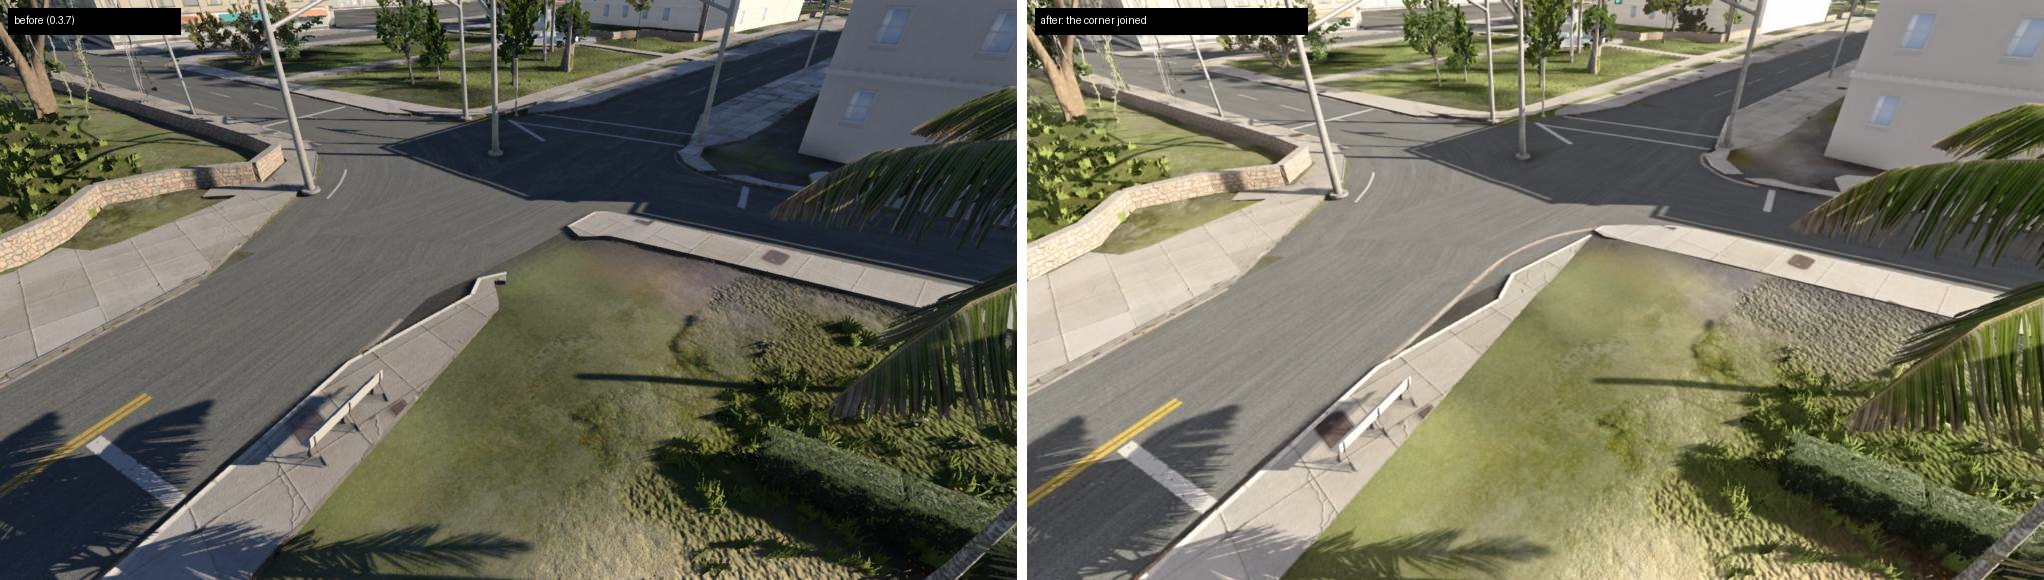
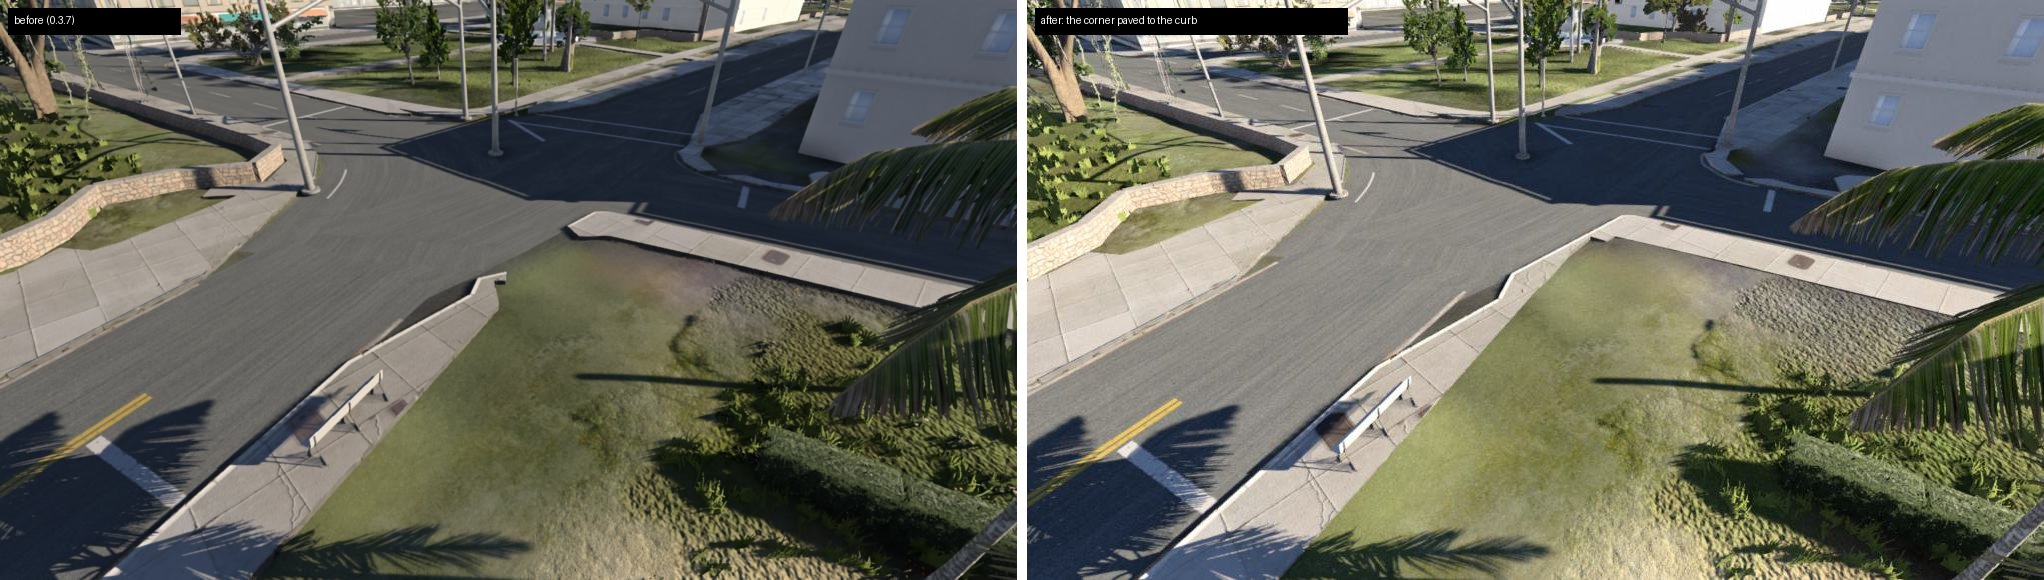
Corners paved square where only their own streets block a rounded one
The lean into a corner's own streets (00608b7) put the curb a metre into
King St.'s lane at Cordova x King. Rounded corners keep clear of every
road again; where none fits and only the corner's own two streets (by
name or way) are in the way, the corner is paved square: from both
sidewalks' ends out to their outer corner and in to where the curb lines
meet, the road keeping its surface and the curb following its edge. Ends
paved on carry no cap or ramp. The export log counts the corners
(St. Augustine 508: 498 rounded, 8 square, 2 open; tychonas 14 square of
83, its streets bending at junctions) and names where the square ones are.
Checked in game against the user's photo; sweep: no cell failing.

diff --git a/services/beamngSidewalks.js b/services/beamngSidewalks.js
@@ -182,7 +182,6 @@ const CORNER_RADIUS = 5;
 const CORNER_TRIES = [1, 0.5, 0.25];
 const CORNER_REACH_M = 15;    // how far past a run's end its corner may lie
 const CORNER_ANGLES = [30, 150];  // degrees between the two curb lines for a corner
-const CORNER_OWN_SLACK_M = 1.5;  // how far a corner may lean into the two streets it joins (joinCorners)
 const RUNS_PER_MESH = 300;
 
 // Divided roads' medians (BeamNG.Earth server/roads.py dual_carriageways,
@@ -1657,8 +1656,17 @@ function joinCorners(runs, index, walkRuns = [], streetOfOwner = new Map()) {
   pairs.sort((x, y) => x.cost - y.cost || x.i - y.i || x.j - y.j);
   const used = new Set();
   const corners = [];
+  const squares = []; const stats = { pairs: 0, round: 0, square: 0, byOther: 0, noFit: 0 };
   for (const { A, B } of pairs) {
     if (used.has(A) || used.has(B)) continue;
+    // (the corner's own two streets: a street drawn in pieces of different widths, its line bending into the junction,
+    // reaches past the corner's curb; at Cordova x King St. three of four corners were refused for it and the two
+    // sidewalks ended square with grass between, where the real corner is paved from the curb to its planting beds
+    // (St. Augustine, the user's photo 2026-11-26))
+    const own = new Set([A.run.owner, ...(A.run.owners || []), B.run.owner, ...(B.run.owners || [])]);
+    const ownStreets = new Set([...own].map((o) => streetOfOwner.get(o)).filter((v) => v !== undefined));
+    const isOwn = (o) => own.has(o) || ownStreets.has(streetOfOwner.get(o));
+    let byOther = false; let made = false; stats.pairs++;
     const r0 = Math.max(CORNER_RADII[A.run.highway] ?? CORNER_RADIUS, CORNER_RADII[B.run.highway] ?? CORNER_RADIUS);
     for (const share of CORNER_TRIES) {
       const r = r0 * share;
@@ -1684,23 +1692,37 @@ function joinCorners(runs, index, walkRuns = [], streetOfOwner = new Map()) {
         [T2[0] + B.n[0] * B.run.width, T2[1] + B.n[1] * B.run.width], B.d);
       if (!outer) break;
       const probes = [...arc, outer, [(outer[0] + Z[0]) / 2, (outer[1] + Z[1]) / 2]];
-      // (the two streets the corner joins may reach CORNER_OWN_SLACK_M past its curb: a street drawn in pieces of
-      // different widths overlaps at the junction, the wider piece 0.2 to 0.4 m past the narrower one's curb, and three
-      // of four corners at Cordova x King St. were refused, the sidewalks ending square (St. Augustine, 2026-11-26).
-      // Any other road still refuses it from 0.2 m in)
-      const own = new Set([A.run.owner, ...(A.run.owners || []), B.run.owner, ...(B.run.owners || [])]);
-      const ownStreets = new Set([...own].map((o) => streetOfOwner.get(o)).filter((v) => v !== undefined));
-      const isOwn = (o) => own.has(o) || ownStreets.has(streetOfOwner.get(o));
-      const onRoad = ([x, y]) => isOnOtherCarriageway(index, x, y, -0.2, isOwn) || isOnOtherCarriageway(index, x, y, -CORNER_OWN_SLACK_M, () => false);
-      if (probes.some(onRoad)) continue;
+      // (clear of every road, its own two streets too: let lean into its own street, a corner's curb stood a metre into
+      // King St.'s lane at Cordova x King (St. Augustine, 2026-11-26). Refused by its own streets alone, the corner is
+      // paved square below instead)
+      if (probes.some(([x, y]) => isOnOtherCarriageway(index, x, y, -0.2, () => false))) {
+        if (probes.some(([x, y]) => isOnOtherCarriageway(index, x, y, -0.2, isOwn))) byOther = true;
+        continue;
+      }
       moveEnd(A, t1);
       moveEnd(B, t2);
       corners.push({ arc, centre: Z, outer, a: A, b: B });
       used.add(A);
       used.add(B);
+      made = true; stats.round++;
       break;
     }
+    // (no arc fits clear of the roads, and only the corner's own two streets were in the way: the corner paved square,
+    // from both sidewalks' ends out to their outer corner and in to where the curb lines meet; the road keeps its
+    // surface there and the curb follows its edge round the corner (pavedSidewalks.js cornerSlabs))
+    if (!made && !byOther) {
+      const C = lineX(A.p, A.d, B.p, B.d);
+      const O = lineX([A.p[0] + A.n[0] * A.run.width, A.p[1] + A.n[1] * A.run.width], A.d, [B.p[0] + B.n[0] * B.run.width, B.p[1] + B.n[1] * B.run.width], B.d);
+      if (C && O && fastHypot(C[0] - A.p[0], C[1] - A.p[1]) <= CORNER_REACH_M && fastHypot(C[0] - B.p[0], C[1] - B.p[1]) <= CORNER_REACH_M) {
+        stats.square++;
+        squares.push({ poly: [[A.p[0], A.p[1]], [A.p[0] + A.n[0] * A.run.width, A.p[1] + A.n[1] * A.run.width], O, [B.p[0] + B.n[0] * B.run.width, B.p[1] + B.n[1] * B.run.width], [B.p[0], B.p[1]], C], a: A, b: B });
+        used.add(A); used.add(B);
+      }
+    }
   }
+  stats.byOther = stats.pairs - stats.round - stats.square;
+  Object.defineProperty(corners, 'square', { value: squares, enumerable: false });
+  Object.defineProperty(corners, 'stats', { value: stats, enumerable: false });
   // a mapped walk carrying on from a sidewalk's end (one leaving the street
   // round a fountain or into a park): the slab stays up and meets it, not a
   // ramp down to the road beside the walk
@@ -3745,6 +3767,9 @@ function* sidewalkMeshes(carriageways, options = {}) {
   const streetOfOwner = new Map(carriageways.map((cw) => [cw.owner, cw.tags?.name || cw.wayId || cw.owner]));
   const corners = joinCorners(runs, buildCarriagewayIndex(carriageways), walkRuns, streetOfOwner);
   levelWalkEndsOnSidewalks(walkRuns, runs, corners);
+  // (what the corner step did: rounded corners, corners paved square where no arc fit clear of the roads and only their
+  // own two streets were in the way, and corners left open by another road or by their geometry)
+  { const st = corners.stats || {}; console.log(`Sidewalks: corners: ${st.pairs ?? 0} pair(s) of sidewalk ends at a corner; ${st.round ?? 0} rounded, ${st.square ?? 0} paved square (no arc clear of the roads, only their own two streets in the way), ${st.byOther ?? 0} left open (another road across the corner, a slip lane, or no corner shape)${(corners.square || []).length ? `; square at ${(corners.square || []).slice(0, 8).map((q) => `(${Math.round(q.poly[5][0])}, ${Math.round(q.poly[5][1])})`).join(' ')}${corners.square.length > 8 ? ' ...' : ''}` : ''}.`); }
   const paveAt = pavedWalkZones(carriageways, options.walks, { americas: options.americas });
   const meshes = [];
   let builder = new PartBuilder(paveAt, options.sidewalkLook);

diff --git a/public/updates/0.3.8/index.html b/public/updates/0.3.8/index.html
@@ -161,11 +161,11 @@
     <ul>
       <li><b>No more step down to the grass.</b> A sidewalk stood 10 to 20 cm proud of the lawn along its back edge, on nearly every street: the ground round the paving was graded from under the slab. The lawn now meets the sidewalk's back edge flush, as a real one sits in its grass. Banks and hillsides beside a sidewalk keep their slope.</li>
       <li><b>No strip of bare earth by a town road.</b> The blend from a road's edge into the ground beside it came out as dirt on some roads at random, also in town, between the road and its sidewalk. In towns it is now always asphalt into grass, and a concrete road has a clean edge with no blend at all.</li>
-      <li><b>Corners joined.</b> Where a street's mapped line bends into a junction, its own road reached into the corner and the corner was given up: the two sidewalks ended square with grass between. A corner may now lean into its own two streets, and every corner's piece of sidewalk is paved, also in leafy streets where the verge is a lawn.</li>
+      <li><b>Corners joined.</b> Where no rounded corner fits clear of the roads because the corner's own streets are in the way (a street drawn in pieces of different widths, or its line bending into the junction), the corner was given up: the two sidewalks ended square with grass between. It is now paved square instead, up to the curb along the road's edge. On test maps this joins 2 to 17 % of corners; a corner with another road across it, such as a slip lane, stays open.</li>
     </ul>
     <figure><img src="images/sidewalk-back-edge.jpg" alt="The same street corner in the game twice: left, the sidewalk's edge stands up from the lawn with a dark line along it; right, the grass runs up to the sidewalk flush." loading="lazy"><figcaption>The same corner, before (left) and after (right): the lawn now meets the sidewalk flush.</figcaption></figure>
     <figure><img src="images/sidewalk-verge.jpg" alt="A concrete road with a sidewalk beside it, twice: left, a strip of dirt and a sidewalk raised with curbs on both sides; right, the sidewalk flush with the grass and no dirt edge." loading="lazy"><figcaption>A concrete boulevard, before (left) and after (right): the sidewalk sits flush and the dirt edge is gone.</figcaption></figure>
-    <figure><img src="images/sidewalk-corner.jpg" alt="A junction corner twice: left, two sidewalks stop short of the corner with grass between them; right, they meet at the corner along the curb." loading="lazy"><figcaption>Cordova Street at King Street, before (left) and after (right): the corner's sidewalks now meet.</figcaption></figure>
+    <figure><img src="images/sidewalk-corner.jpg" alt="A junction corner twice: left, two sidewalks stop short of the corner with grass between them; right, they meet at the corner along the curb." loading="lazy"><figcaption>Cordova Street at King Street, before (left) and after (right): the corner paved to the curb.</figcaption></figure>
   </section>
 
   <footer>

diff --git a/services/pavedSidewalks.js b/services/pavedSidewalks.js
@@ -296,6 +296,9 @@ export function* addPavedSidewalksSteps(builder, { carriageways = [], corners = 
     const inside = O && (O[0] - T1[0]) * c.a.n[0] + (O[1] - T1[1]) * c.a.n[1] > 0 && (O[0] - T2[0]) * c.b.n[0] + (O[1] - T2[1]) * c.b.n[1] > 0;
     return inside ? [...arc, p2, [O[0], O[1]], p1] : [...arc, p2, p1];
   });
+  // (and the corners paved square, where no arc fit clear of the roads (beamngSidewalks.js joinCorners): the road keeps
+  // its surface in them, the curb following its edge)
+  for (const sq of corners.square || []) if (sq.a?.run?.width > curbOnlyM && sq.b?.run?.width > curbOnlyM) cornerSlabs.push(sq.poly.map((q) => [q[0], q[1]]));
   // (only paved walks are paving: a dirt or gravel path, a highway=path, a footway on a bridge or in a tunnel is no slab.
   // Marked as walks, every mapped path came out a concrete strip on the ground, leaning with a hillside's slope)
   const ws = walks.filter((w) => w.nodes?.length > 1 && (w.sidewalk || w.crossing)).map((w) => ({ pts: w.nodes, half: w.half || 1, sidewalk: !!w.sidewalk, crossing: !!w.crossing }));
